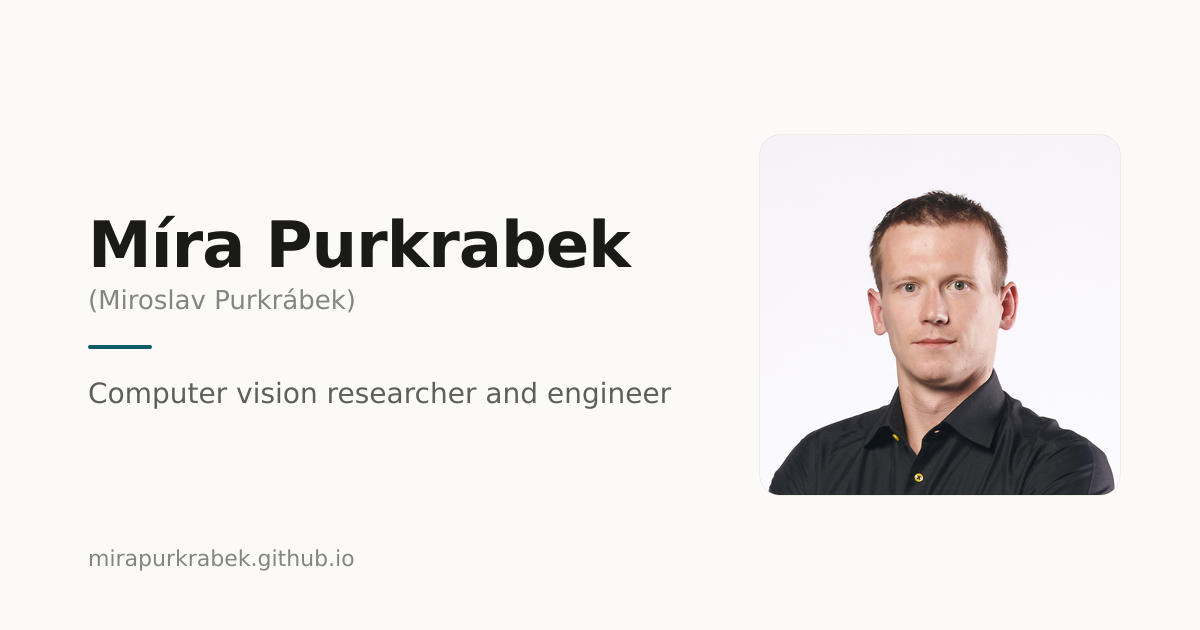
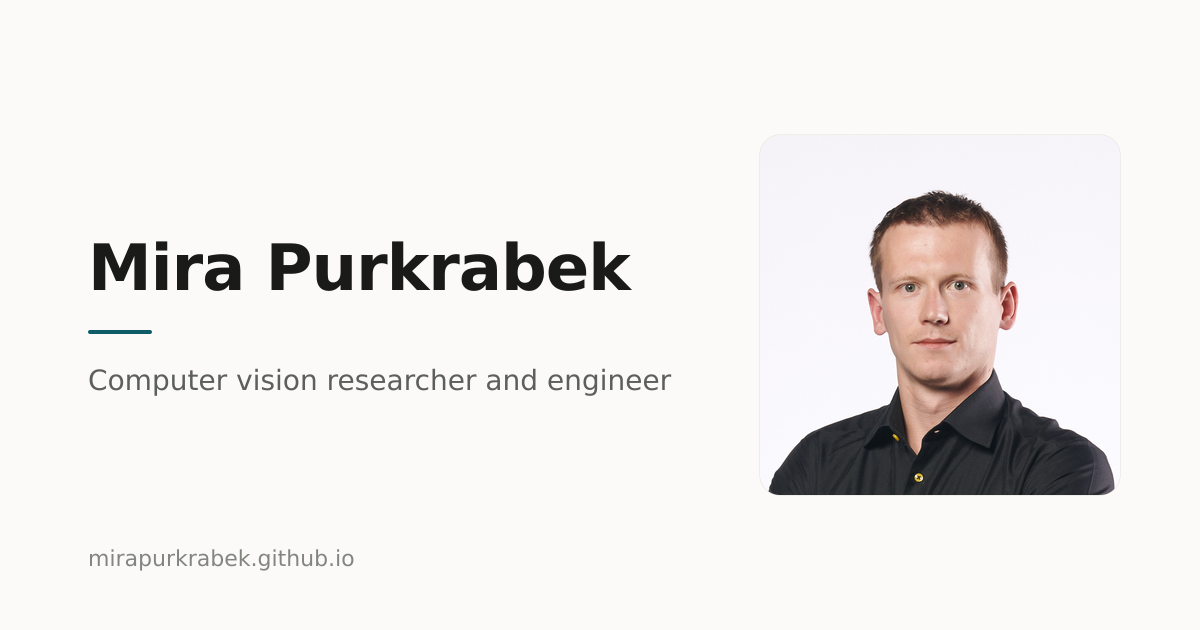
SEO for both Miroslav and Mira

Changed region(s): [[0.0617, 0.3317, 0.555, 0.6635]]

diff --git a/src/data/site.ts b/src/data/site.ts
@@ -1,10 +1,10 @@
 // Typed site config consumed by shared UI, SEO metadata, and structured data.
 
 export interface SiteConfig {
-  /** Casual register — wordmark, headings, and body prose. */
-  name: string;
-  /** Official register — footer copyright line and schema.org/Person `name`. */
-  legalName: string;
+  /** Public register — wordmark, headings, body prose, and primary metadata. */
+  preferredName: string;
+  /** Official and academic register — CV, publication bylines, and identity aliases. */
+  officialName: string;
   role: string;
   location: {
     home: string;
@@ -23,6 +23,7 @@ export interface SiteConfig {
     linkedin: string;
     orcid: string;
   };
+  institutionalProfile: string;
   cvPath: string;
   siteUrl: string;
   /** Default Open Graph image, relative to the site root. */
@@ -34,8 +35,8 @@ export interface SiteConfig {
 }
 
 export const site: SiteConfig = {
-  name: 'Mira Purkrabek',
-  legalName: 'Miroslav Purkrábek',
+  preferredName: 'Mira Purkrabek',
+  officialName: 'Miroslav Purkrabek',
   role: 'Computer vision researcher and engineer',
   location: {
     home: 'Prague',
@@ -50,9 +51,11 @@ export const site: SiteConfig = {
   social: {
     github: 'https://github.com/MiraPurkrabek',
     googleScholar: 'https://scholar.google.com/citations?user=EDRJFLcAAAAJ',
-    linkedin: 'https://www.linkedin.com/in/miroslav-purkrábek-0051a2243/',
+    linkedin: 'https://www.linkedin.com/in/purkrabekm/',
     orcid: 'https://orcid.org/0009-0000-6142-6492',
   },
+  institutionalProfile:
+    'https://fel.cvut.cz/en/faculty/people/29221-miroslav-purkrabek',
   cvPath: '/CV_twopage.pdf',
   siteUrl: 'https://mirapurkrabek.github.io',
   ogImage: '/og/default.png',

diff --git a/src/styles/fonts.css b/src/styles/fonts.css
@@ -1,5 +1,5 @@
 /* Inter Variable, self-hosted — latin + latin-ext subsets only (latin-ext carries the Czech
-   diacritics used throughout the site: "Purkrábek", "Jiří", "Královské"). Hand-picked from
+   diacritics used throughout the site: "Jiří", "Královské"). Hand-picked from
    @fontsource-variable/inter/wght.css rather than importing the full file, which also bundles
    cyrillic/greek/vietnamese subsets this site never needs. */
 

diff --git a/README.md b/README.md
@@ -20,11 +20,17 @@ The site should help Mira get hired through concrete evidence and honest context
 describing him as a person. Use factual, warm, specific, scannable writing. Avoid buzzwords,
 inflated claims, dense CV tables, visual noise, and a LinkedIn-like presentation.
 
+Use `Mira Purkrabek` as the preferred human-facing name in the site's own headings, navigation,
+prose, and social previews. `Miroslav Purkrabek` is the official and academic name: preserve it in
+the CV, exact publication author lists, metadata, and machine-readable identity aliases. Connect
+the names once in the homepage explanation, but do not repeat the explanation in visible site
+copy. Always spell both forms with ASCII characters; do not add diacritics to Mira's name.
+
 Humans and machines are equal readers. Important facts belong in clear visible HTML with meaningful
 headings and links; do not hide them only in images, animation, or JavaScript. Keep crawler-facing
-metadata (`robots.txt`, sitemap, canonical metadata, Person JSON-LD, and `public/llms.txt`) current
-whenever a public fact, route, or contact detail changes. Machine-readable summaries must match the
-visible site and never invent facts.
+metadata (`robots.txt`, sitemap, canonical metadata, identity and publication JSON-LD, and
+`public/llms.txt`) current whenever a public fact, route, or contact detail changes.
+Machine-readable summaries must match the visible site and never invent facts.
 
 ## Branches and release flow
 
@@ -64,7 +70,8 @@ education, and recognition in their collection entries rather than duplicating f
 Indexable routes are `/`, `/work`, `/publications`, `/about`, `/coaching`, `/news`, and
 `/webcam_demo/`, plus the downloadable CVs. `/styleguide` and `/404` are `noindex`.
 `astro.config.mjs` owns legacy redirects and sitemap exclusions. `Seo.astro` emits per-page
-metadata, the home page emits Person JSON-LD, and `robots.txt` advertises the sitemap.
+metadata, the home page emits connected WebSite/ProfilePage/Person JSON-LD, the publications page
+emits publication JSON-LD, and `robots.txt` advertises the sitemap.
 
 ## Implementation
 

diff --git a/AGENTS.md b/AGENTS.md
@@ -16,6 +16,12 @@ like LinkedIn, a generic corporate landing page, or an academic-template CV. Avo
 inflated claims, dense CV tables, and visual noise; personal material is part of the story, not a
 marketing prop.
 
+Use `Mira Purkrabek` as the preferred human-facing name in the site's own headings, navigation,
+prose, and social previews. `Miroslav Purkrabek` is the official and academic name: preserve it in
+the CV, exact publication author lists, metadata, and machine-readable identity aliases. Connect
+the names once in the homepage explanation, but do not repeat the explanation in visible site
+copy. Always spell both forms with ASCII characters; do not add diacritics to Mira's name.
+
 Support people, recruiters, HR teams, scrapers, and LLMs at once. Important facts belong in clear
 visible HTML with meaningful headings and links, never only in images, animation, or client-side
 interactions. Keep metadata, canonical URLs, JSON-LD, sitemap/robots data, and `public/llms.txt`
@@ -57,7 +63,8 @@ and with the rendered content.
 Indexable routes are `/`, `/work`, `/publications`, `/about`, `/coaching`, `/news`, and
 `/webcam_demo/`, plus the downloadable CVs. `/styleguide` and `/404` are `noindex`.
 `astro.config.mjs` owns redirects and sitemap exclusions. `Seo.astro` emits page metadata, the
-home page emits Person JSON-LD, and `robots.txt` points crawlers to the sitemap.
+home page emits connected WebSite/ProfilePage/Person JSON-LD, the publications page emits
+publication JSON-LD, and `robots.txt` points crawlers to the sitemap.
 
 ## Working rules
 

diff --git a/CLAUDE.md b/CLAUDE.md
@@ -16,6 +16,12 @@ like LinkedIn, a generic corporate landing page, or an academic-template CV. Avo
 inflated claims, dense CV tables, and visual noise; personal material is part of the story, not a
 marketing prop.
 
+Use `Mira Purkrabek` as the preferred human-facing name in the site's own headings, navigation,
+prose, and social previews. `Miroslav Purkrabek` is the official and academic name: preserve it in
+the CV, exact publication author lists, metadata, and machine-readable identity aliases. Connect
+the names once in the homepage explanation, but do not repeat the explanation in visible site
+copy. Always spell both forms with ASCII characters; do not add diacritics to Mira's name.
+
 Support people, recruiters, HR teams, scrapers, and LLMs at once. Important facts belong in clear
 visible HTML with meaningful headings and links, never only in images, animation, or client-side
 interactions. Keep metadata, canonical URLs, JSON-LD, sitemap/robots data, and `public/llms.txt`
@@ -57,7 +63,8 @@ and with the rendered content.
 Indexable routes are `/`, `/work`, `/publications`, `/about`, `/coaching`, `/news`, and
 `/webcam_demo/`, plus the downloadable CVs. `/styleguide` and `/404` are `noindex`.
 `astro.config.mjs` owns redirects and sitemap exclusions. `Seo.astro` emits page metadata, the
-home page emits Person JSON-LD, and `robots.txt` points crawlers to the sitemap.
+home page emits connected WebSite/ProfilePage/Person JSON-LD, the publications page emits
+publication JSON-LD, and `robots.txt` points crawlers to the sitemap.
 
 ## Working rules
 

diff --git a/CODEX.md b/CODEX.md
@@ -16,6 +16,12 @@ like LinkedIn, a generic corporate landing page, or an academic-template CV. Avo
 inflated claims, dense CV tables, and visual noise; personal material is part of the story, not a
 marketing prop.
 
+Use `Mira Purkrabek` as the preferred human-facing name in the site's own headings, navigation,
+prose, and social previews. `Miroslav Purkrabek` is the official and academic name: preserve it in
+the CV, exact publication author lists, metadata, and machine-readable identity aliases. Connect
+the names once in the homepage explanation, but do not repeat the explanation in visible site
+copy. Always spell both forms with ASCII characters; do not add diacritics to Mira's name.
+
 Support people, recruiters, HR teams, scrapers, and LLMs at once. Important facts belong in clear
 visible HTML with meaningful headings and links, never only in images, animation, or client-side
 interactions. Keep metadata, canonical URLs, JSON-LD, sitemap/robots data, and `public/llms.txt`
@@ -57,7 +63,8 @@ and with the rendered content.
 Indexable routes are `/`, `/work`, `/publications`, `/about`, `/coaching`, `/news`, and
 `/webcam_demo/`, plus the downloadable CVs. `/styleguide` and `/404` are `noindex`.
 `astro.config.mjs` owns redirects and sitemap exclusions. `Seo.astro` emits page metadata, the
-home page emits Person JSON-LD, and `robots.txt` points crawlers to the sitemap.
+home page emits connected WebSite/ProfilePage/Person JSON-LD, the publications page emits
+publication JSON-LD, and `robots.txt` points crawlers to the sitemap.
 
 ## Working rules
 

diff --git a/src/content/publications/repogen.md b/src/content/publications/repogen.md
@@ -1,7 +1,7 @@
 ---
 title: Improving 2D Human Pose Estimation in Rare Camera Views with Synthetic Data
 authors:
-  - Miroslav Purkrábek
+  - Miroslav Purkrabek
   - Jiří Matas
 venue: FG 2024
 venueLong: 18th IEEE International Conference on Automatic Face and Gesture Recognition

diff --git a/src/content/publications/bbox-mask-pose.md b/src/content/publications/bbox-mask-pose.md
@@ -1,7 +1,7 @@
 ---
 title: 'Detection, Pose Estimation and Segmentation for Multiple Bodies: Closing the Virtuous Circle'
 authors:
-  - Miroslav Purkrábek
+  - Miroslav Purkrabek
   - Jiří Matas
 venue: ICCV 2025
 venueLong: IEEE/CVF International Conference on Computer Vision

diff --git a/src/content/publications/blanket.md b/src/content/publications/blanket.md
@@ -3,7 +3,7 @@ title: 'BLANKET: Anonymizing Faces in Infant Video Recordings'
 authors:
   - Ditmar Hadera
   - Jan Čech
-  - Miroslav Purkrábek
+  - Miroslav Purkrabek
   - Matej Hoffmann
 venue: ICDL 2025
 venueLong: IEEE International Conference on Development and Learning

diff --git a/src/content/publications/msc-thesis.md b/src/content/publications/msc-thesis.md
@@ -1,7 +1,7 @@
 ---
 title: Discovery, tracking and redetection of floorball players from multiple cameras
 authors:
-  - Miroslav Purkrábek
+  - Miroslav Purkrabek
 venue: MSc Thesis, CTU Prague
 venueLong: "Master's thesis, Czech Technical University in Prague"
 year: 2022

diff --git a/src/content/publications/probpose.md b/src/content/publications/probpose.md
@@ -1,7 +1,7 @@
 ---
 title: 'ProbPose: A Probabilistic Approach to 2D Human Pose Estimation'
 authors:
-  - Miroslav Purkrábek
+  - Miroslav Purkrabek
   - Jiří Matas
 venue: CVPR 2025
 venueLong: IEEE/CVF Conference on Computer Vision and Pattern Recognition

diff --git a/src/content/publications/sam-pose2seg.md b/src/content/publications/sam-pose2seg.md
@@ -2,7 +2,7 @@
 title: 'SAM-pose2seg: Pose-Guided Human Instance Segmentation in Crowds'
 authors:
   - Constantin Kolomiiets
-  - Miroslav Purkrábek
+  - Miroslav Purkrabek
   - Jiří Matas
 venue: CVWW 2026
 venueLong: 29th Computer Vision Winter Workshop
